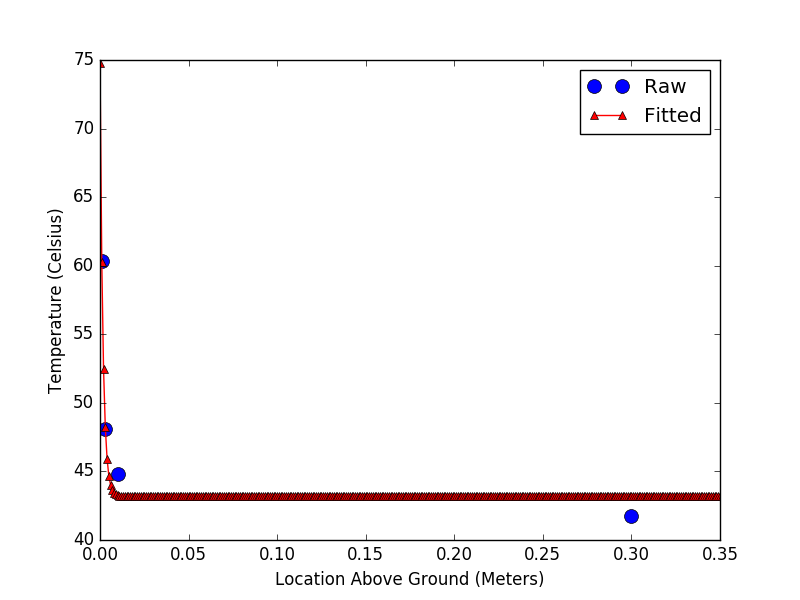
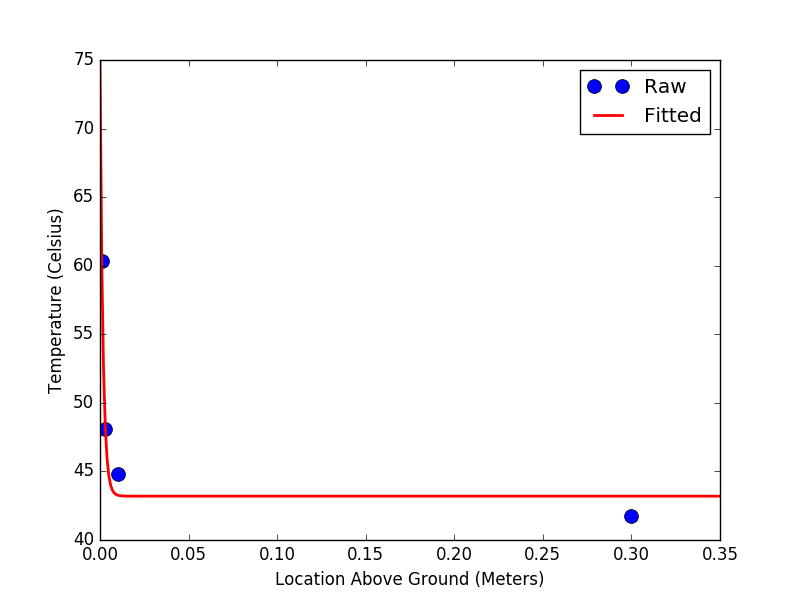
updating fitted routine and image as moser directed

Changed region(s): [[0.125, 0.54, 0.9062, 0.84], [0.7188, 0.18, 0.7812, 0.21], [0.125, 0.42, 0.1562, 0.48]]

diff --git a/disputatio/dissertation/chapter-field.tex b/disputatio/dissertation/chapter-field.tex
@@ -716,7 +716,7 @@ this calculation, a temperature difference of 30 Kelvin was determined.
   \begin{center}
    \includegraphics[width = 15 cm]{figs/fit_zoomed}
    \caption{The raw thermal boundary layer data (blue circles) plotted
-   against the fitted boundary layer profile (red triangles). The
+   against the fitted boundary layer profile (red line). The
    paucity of experimental data undermines the fit's accuracy to
    anything more than a plausible location for the actual wall
    temperature. }  

diff --git a/disputatio/routines/thermal_boundary_layer/zoom.py b/disputatio/routines/thermal_boundary_layer/zoom.py
@@ -70,7 +70,7 @@ def plot_raw(x,t):
     # http://stackoverflow.com/questions/3433486/how-to-do-exponential-and-logarithmic-curve-fitting-in-python-i-found-only-poly
     #
     # plot exponential
-    plt.plot(xx,e(xx,popt[0],popt[1],popt[2]), 'k^-', color='red',label='Fitted')
+    plt.plot(xx,e(xx,popt[0],popt[1],popt[2]), '-', color='red',label='Fitted',linewidth=2)
     plt.legend()
 
     # plot polynomial:
